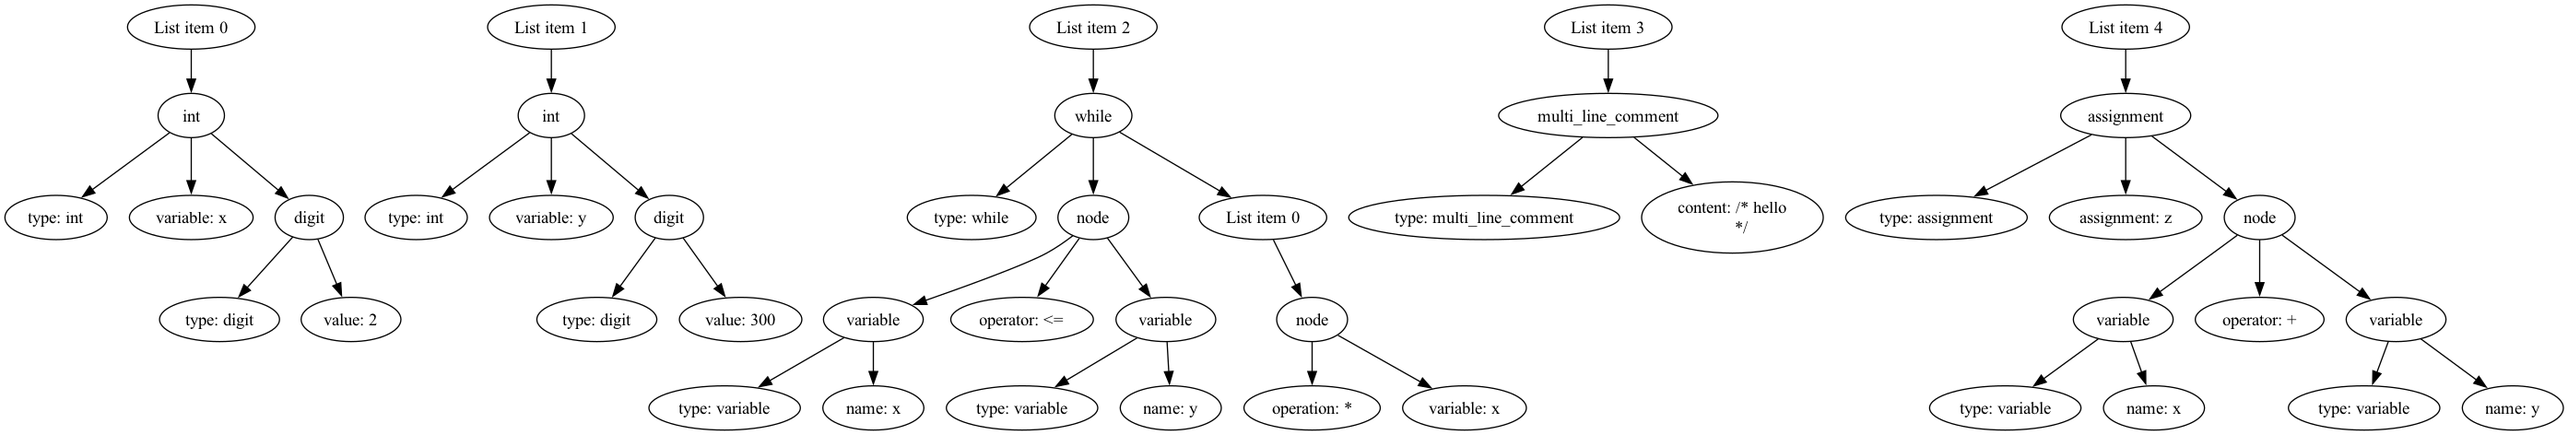
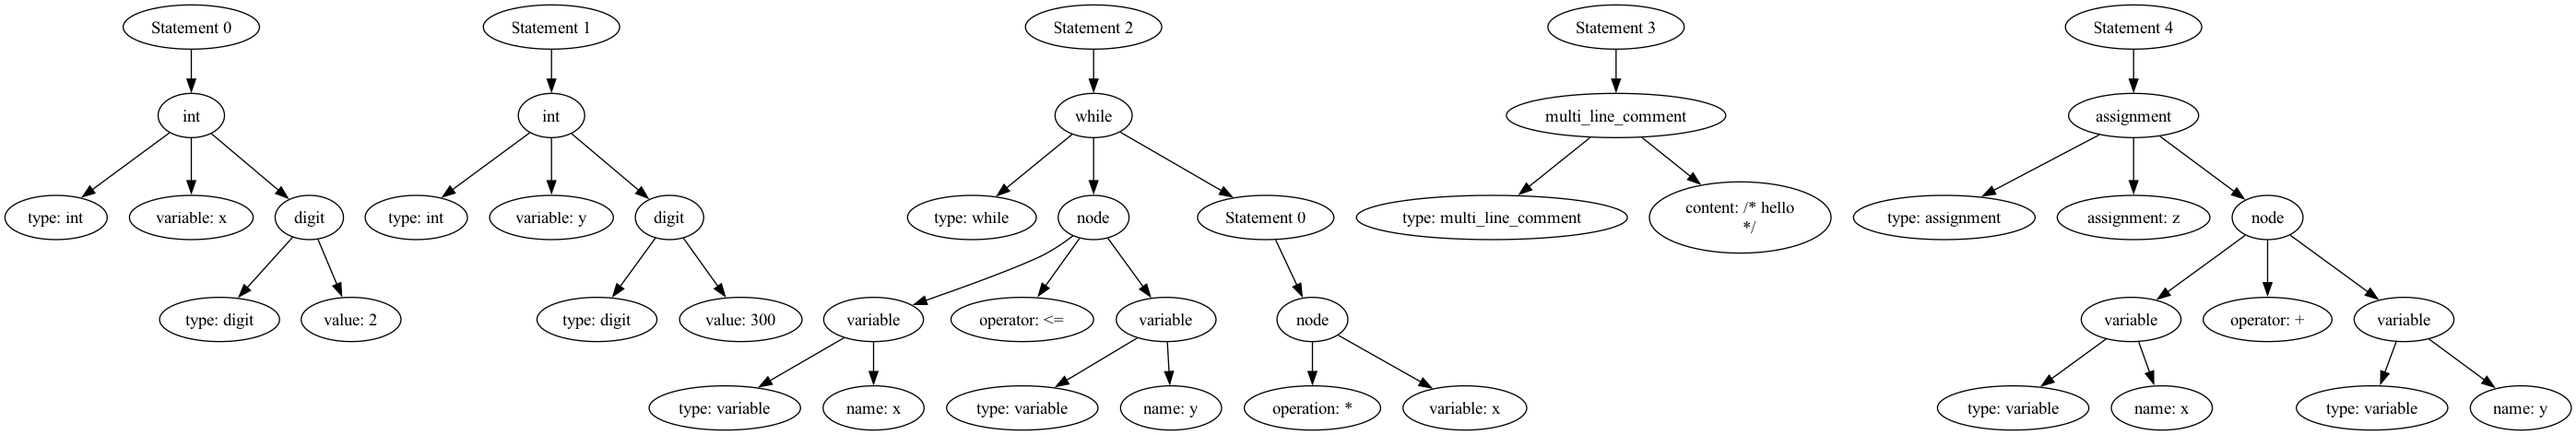
amazing

diff --git a/src/gui/tab_manager.py b/src/gui/tab_manager.py
@@ -3,12 +3,13 @@ from tkinter import ttk
 from tkinter import simpledialog
 import os
 import sys
+import json
 current_dir = os.path.dirname(os.path.abspath(__file__))
 parent_dir = os.path.abspath(os.path.join(current_dir, os.pardir))
 sys.path.append(parent_dir)
 from themes import DARK_THEME
 from status_bar import StatusBar
-from SCLPL.abstract_syntax_tree import draw_ast
+from SCLPL.abstract_syntax_tree import AST
 from SCLPL.sclpl_parser import sclplParser
 from syntax_highlighter import SyntaxHighlighter
 
@@ -102,22 +103,28 @@ class TabManager:
 
     
     def parser_callback(self):
+        print("function called!")
         if current_tab := self.notebook.select():
+            print("first if condition!")
             tab_name = self.notebook.tab(current_tab, "text")
+            print(f"tab dict: {self.tabs}")
+            print(f"tab name: {self.tabs.get(tab_name)}")
+            print(f"text widget name: {text_widget}")
             if text_widget := self.tabs.get(tab_name):
+                print("second if condition!")
                 content = text_widget.get("1.0", "end-1c")
 
                 # 1. Parse the content using the Parser class
                 parser = sclplParser(tokens)
                 tokens = parser.parse()  # Assuming `Parser.parse()` returns tokens or an AST
-
+                print(json.dumps(tokens, indent=4))
                 # 2. Generate AST (ASCII tree) using the abstract_syntax_tree module
-                ast_representation = draw_ast(tokens)  # `draw_ast` returns the ASCII representation of the AST
+                ast = AST(tokens)
+                ast_representation = ast.draw_ast('yay')  # `draw_ast` returns the ASCII representation of the AST
 
                 # 3. Create a new tab to display the AST
                 new_tab_title = f"{tab_name}_AST.sclpl"
                 self.add_uneditable_tab(new_tab_title, ast_representation)
-
         print("works")
         #placeholderrr
 
@@ -150,6 +157,7 @@ class TabManager:
                 self.syntax_highlighters[new_name] = self.syntax_highlighters.pop(tab_name)
                 # Automatically save with the new name
                 self.auto_save(new_name)
+                print(f"New tab name {self.tabs}")
 
     def auto_save(self, tab_name):
         # Save the content of the tab to a file with the new name

diff --git a/src/SCLPL/abstract_syntax_tree.py b/src/SCLPL/abstract_syntax_tree.py
@@ -30,7 +30,7 @@ class AST:
             elif isinstance(node, list):
                 for index, item in enumerate(node):
                     item_id = f"{node_id}_{index}"
-                    dot.node(item_id, f"List item {index}")
+                    dot.node(item_id, f"Statement {index}")
                     
                     if parent_id is not None:
                         dot.edge(parent_id, item_id)

diff --git a/src/SCLPL/sclpl_parser.py b/src/SCLPL/sclpl_parser.py
@@ -1,6 +1,6 @@
 import json
-from sclpl_lexer import sclplLexer
-from abstract_syntax_tree import AST
+from SCLPL.sclpl_lexer import sclplLexer
+from SCLPL.abstract_syntax_tree import AST
 
 class sclplParser:
     def __init__(self, tokens):
